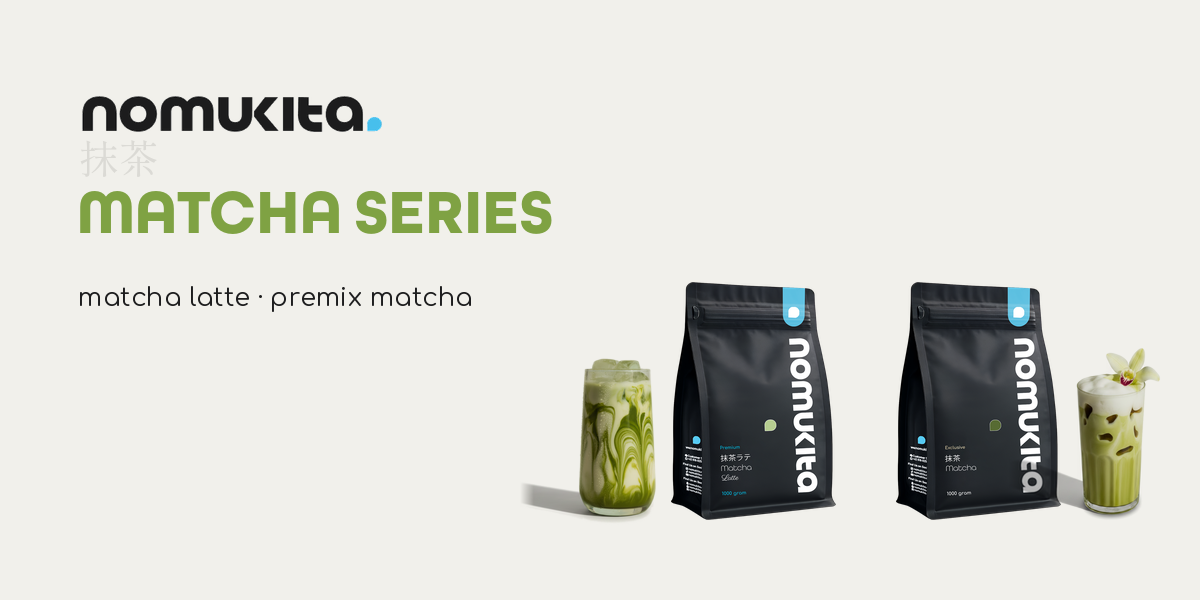
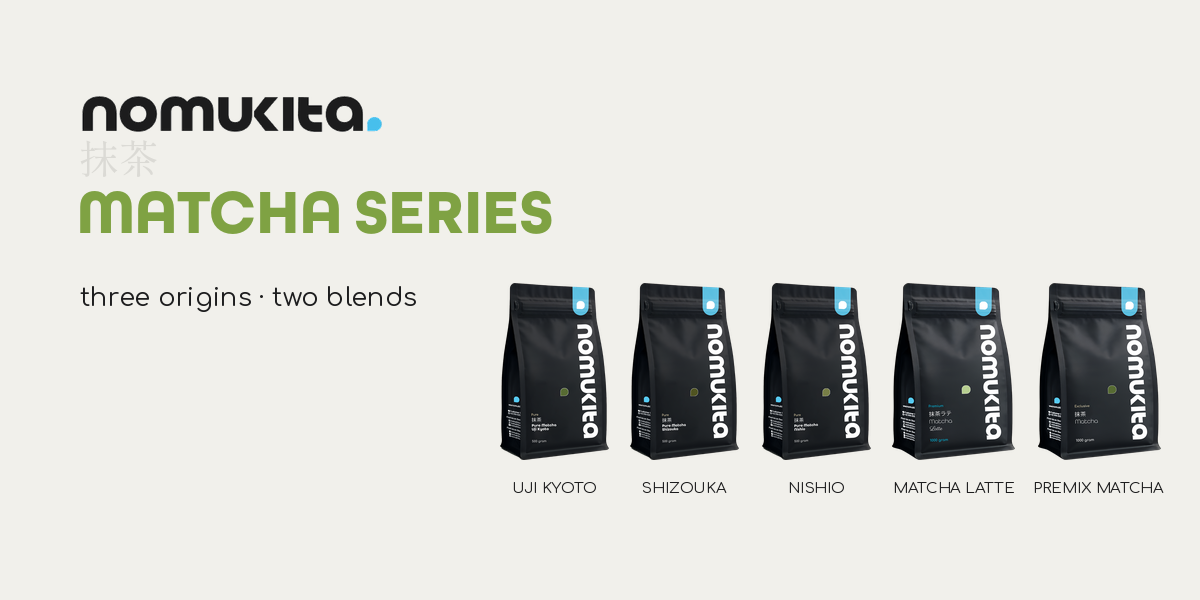
Correct the Matcha Series to its five real members
The series is Uji Kyoto, Shizouka, Nishio, Matcha Latte and Premix Matcha:
three single origin Pure Matcha and two blends. The first version had two
members because the three Pure Matcha are not in the twelve product table in
build_slides.py at all. Their mockups came from Drive and are committed under
prod-matcha/.

Opening those mockups changed the design twice over.

The three Pure Matcha pouches are identical apart from one line of name text.
Same black, same olive drop, same katakana, same label layout. Lined up at
thumbnail size they are a black band carrying no information, so the origin
names move up into typography under each pouch instead of staying as four pixel
print on a label. This is the same conclusion the marketplace research reached
about the twelve flavour pouches, now confirmed on a second set.

And the Pure Matcha are 500 gram while the two blends are 1000 gram, on pouches
with different proportions. Levelling them to one height erases that, so the net
weight is stated in words under each name rather than implied by a size whose
true scale is not established.

Name labels shrink until no two neighbours touch. MATCHA LATTE and PREMIX MATCHA
happen to sit side by side and are the longest pair.

Two things are recorded rather than assumed. The sub-line "three origins, two
blends" rests on the word Pure and a place name printed on the packaging, not on
a product document. And the packaging spells the region Shizouka where Japan
[…]

Changed region(s): [[0.0617, 0.45, 0.9867, 0.87]]

diff --git a/nomukita-carousel/render_series.py b/nomukita-carousel/render_series.py
@@ -234,3 +234,185 @@ def build_banner(series="matcha", out="series_banner.png", size="1000"):
 
     flat.save(out)
     return out
+
+
+# ── seri berisi banyak anggota ───────────────────────────────────────────────
+#
+# Susunan gelas-pouch-pouch-gelas hanya bekerja untuk dua anggota. Matcha Series
+# yang sebenarnya berisi lima: tiga Pure Matcha asal tunggal (Uji Kyoto,
+# Shizouka, Nishio) dan dua racikan (Matcha Latte, Premix Matcha).
+#
+# Dua kenyataan menentukan bentuknya, dan keduanya baru terlihat setelah
+# mockup-nya dibuka:
+#
+# 1. Ketiga pouch Pure Matcha IDENTIK kecuali satu baris teks nama. Warna, tetes,
+#    katakana, dan tata letak labelnya sama persis. Dijejer apa adanya pada
+#    ukuran thumbnail Shopee, ketiganya membentuk pita hitam tanpa informasi.
+#    Jadi nama asalnya dinaikkan menjadi TIPOGRAFI di bawah tiap pouch, bukan
+#    dibiarkan sebagai cetakan 4 px di labelnya.
+# 2. Pure Matcha 500 gram sementara dua racikannya 1000 gram, dan bentuk
+#    kantongnya pun berbeda perbandingannya. Disamakan tingginya, perbedaan itu
+#    hilang - jadi beratnya ditulis di bawah tiap nama, dinyatakan dengan kata
+#    alih-alih disiratkan lewat ukuran yang tidak bisa saya pastikan skalanya.
+LINEUP_BASE = 720
+LINEUP_POUCH_H = 300
+LINEUP_GAP = 22
+LINEUP_NAME_TOP = 762
+LINEUP_WEIGHT_TOP = 792
+LINEUP_MARGIN = 40
+
+LINEUPS = {
+    "matcha": {
+        "head": "MATCHA SERIES",
+        "kanji": "抹茶",
+        "sub": "three origins · two blends",
+        "members": [
+            ("UJI KYOTO", "500 gram", "Mockup nomukita-Pure Matcha Uji Kyoto.png"),
+            ("SHIZOUKA", "500 gram", "Mockup nomukita-Pure Matcha Shizouka.png"),
+            ("NISHIO", "500 gram", "Mockup nomukita-Pure Matcha Nishio.png"),
+            ("MATCHA LATTE", "1000 gram", "Mockup nomukita-Exclusive series-matcha latte.png"),
+            ("PREMIX MATCHA", "1000 gram", "Mockup nomukita-Exclusive series-matcha.png"),
+        ],
+    },
+}
+
+
+def _fit_labels(names, spans, font_path, size, gap=14):
+    """Kecilkan label sampai dua nama bertetangga tidak lagi bersentuhan.
+
+    Nama dipusatkan pada pouch-nya masing-masing, jadi dua nama panjang yang
+    kebetulan bersebelahan bisa bertabrakan walaupun pouch-nya tidak. Di banner
+    lima anggota, "MATCHA LATTE" dan "PREMIX MATCHA" berdiri berdampingan dan
+    itulah pasangan terpanjangnya.
+    """
+    while size > 10:
+        f = ImageFont.truetype(font_path, size)
+        w = [f.getbbox(n)[2] - f.getbbox(n)[0] for n in names]
+        clash = any((spans[i] + w[i] / 2) + gap > (spans[i + 1] - w[i + 1] / 2)
+                    for i in range(len(names) - 1))
+        if not clash:
+            return f
+        size -= 1
+    return ImageFont.truetype(font_path, size)
+
+
+def _centred(canvas, text, font, colour, top, cx):
+    from PIL import ImageDraw
+    pad = 300
+    layer = Image.new("RGBA", (canvas.width + 2 * pad, canvas.height + 2 * pad), (0, 0, 0, 0))
+    ImageDraw.Draw(layer).text((pad, pad), text, font=font, fill=colour + (255,))
+    bb = layer.getbbox()
+    canvas.alpha_composite(layer, (round(cx - (bb[0] + bb[2]) / 2 + pad - pad),
+                                   round(top - (bb[1] - pad) - pad)))
+
+
+def build_lineup(series="matcha", out="lineup.png"):
+    spec = LINEUPS[series]
+    members = spec["members"]
+    accent = bs.accent(spec["head"])
+
+    c = Image.new("RGBA", (bs.W, bs.H), bs.BG + (255,))
+    c.alpha_composite(Image.open(f"{bs.ASSETS}/logo_nomukita.png").convert("RGBA"), bs.LOGO_XY)
+    bs.draw_text_top(c, spec["kanji"], ImageFont.truetype(bs.F_JP, bs.KANJI_SIZE),
+                     bs.KANJI_GREY, bs.W // 2, bs.KANJI_TOP)
+    head = bs.build_headline(spec["head"], bs.HEAD_SIZE, accent)
+    c.alpha_composite(head, ((bs.W - head.width) // 2, bs.HEAD_TOP))
+    bs.draw_text_top(c, spec["sub"], ImageFont.truetype(bs.F_BODY, bs.SUB_SIZE),
+                     bs.CHARCOAL, bs.W // 2, bs.SUB_TOP)
+
+    # Tinggi seragam, lalu dikecilkan sekali kalau barisnya tidak muat.
+    pouches = []
+    for name, weight, mock in members:
+        im = Image.open(f"{bs.PROD}/{mock}").convert("RGBA")
+        pouches.append((name, weight, im.crop(im.getbbox())))
+    h = LINEUP_POUCH_H
+    room = bs.W - 2 * LINEUP_MARGIN - LINEUP_GAP * (len(pouches) - 1)
+    span = sum(round(im.width * h / im.height) for _, _, im in pouches)
+    if span > room:
+        h = round(h * room / span)
+        span = sum(round(im.width * h / im.height) for _, _, im in pouches)
+
+    x = (bs.W - span - LINEUP_GAP * (len(pouches) - 1)) / 2
+    places = []
+    for name, weight, im in pouches:
+        w = round(im.width * h / im.height)
+        places.append((x, w))
+        x += w + LINEUP_GAP
+    centres = [px + pw / 2 for px, pw in places]
+    name_f = _fit_labels([n for n, _, _ in pouches], centres, bs.F_BODY, 20)
+    weight_f = ImageFont.truetype(bs.F_BODY, max(12, name_f.size - 3))
+
+    for (name, weight, im), (px, pw) in zip(pouches, places):
+        c.alpha_composite(im.resize((pw, h), Image.LANCZOS), (round(px), LINEUP_BASE - h))
+        cx = px + pw / 2
+        _centred(c, name, name_f, bs.CHARCOAL, LINEUP_NAME_TOP, cx)
+        _centred(c, weight, weight_f, bs.KANJI_GREY, LINEUP_WEIGHT_TOP, cx)
+
+    halal = Image.open(f"{bs.ASSETS}/halal.png").convert("RGBA")
+    hw = round(halal.width * bs.HALAL_H / halal.height)
+    c.alpha_composite(halal.resize((hw, bs.HALAL_H), Image.LANCZOS),
+                      ((bs.W - hw) // 2, bs.HALAL_TOP))
+
+    flat = Image.new("RGB", (bs.W, bs.H), bs.BG)
+    flat.paste(c, (0, 0), c)
+    flat.save(out)
+    return out
+
+
+def build_lineup_banner(series="matcha", out="lineup_banner.png"):
+    """Versi memanjang 1200 x 600 untuk banner toko.
+
+    Perangkat mereknya pindah ke kolom kiri dengan alasan yang sama seperti
+    banner dua anggota: pada tinggi 600 px, tumpukan tengah tidak menyisakan
+    ruang yang cukup untuk produknya.
+    """
+    from PIL import ImageDraw
+    spec = LINEUPS[series]
+    members = spec["members"]
+    accent = bs.accent(spec["head"])
+
+    c = Image.new("RGBA", (BANNER_W, BANNER_H), bs.BG + (255,))
+    c.alpha_composite(Image.open(f"{bs.ASSETS}/logo_nomukita.png").convert("RGBA"),
+                      (BANNER_LEFT, 92))
+    head = bs.build_headline(spec["head"], 62, accent)
+    c.alpha_composite(head, (BANNER_LEFT, 190))
+
+    pad = 300
+    for text, font, colour, top in [
+            (spec["kanji"], ImageFont.truetype(bs.F_JP, 40), bs.KANJI_GREY, 140),
+            (spec["sub"], ImageFont.truetype(bs.F_BODY, 26), bs.CHARCOAL, 286)]:
+        layer = Image.new("RGBA", (BANNER_W + 2 * pad, BANNER_H + 2 * pad), (0, 0, 0, 0))
+        ImageDraw.Draw(layer).text((pad, pad), text, font=font, fill=colour + (255,))
+        bb = layer.getbbox()
+        c.alpha_composite(layer, (round(BANNER_LEFT - (bb[0] - pad) - pad),
+                                  round(top - (bb[1] - pad) - pad)))
+
+    left = 500
+    room = BANNER_W - left - 40 - LINEUP_GAP * (len(members) - 1)
+    pouches = []
+    for name, weight, mock in members:
+        im = Image.open(f"{bs.PROD}/{mock}").convert("RGBA")
+        pouches.append((name, weight, im.crop(im.getbbox())))
+    h = 250
+    span = sum(round(im.width * h / im.height) for _, _, im in pouches)
+    if span > room:
+        h = round(h * room / span)
+        span = sum(round(im.width * h / im.height) for _, _, im in pouches)
+
+    base = 460
+    x = left + (room - span) / 2
+    places = []
+    for name, weight, im in pouches:
+        w = round(im.width * h / im.height)
+        places.append((x, w))
+        x += w + LINEUP_GAP
+    centres = [px + pw / 2 for px, pw in places]
+    name_f = _fit_labels([n for n, _, _ in pouches], centres, bs.F_BODY, 16)
+    for (name, weight, im), (px, pw) in zip(pouches, places):
+        c.alpha_composite(im.resize((pw, h), Image.LANCZOS), (round(px), base - h))
+        _centred(c, name, name_f, bs.CHARCOAL, base + 22, px + pw / 2)
+
+    flat = Image.new("RGB", (BANNER_W, BANNER_H), bs.BG)
+    flat.paste(c, (0, 0), c)
+    flat.save(out)
+    return out

diff --git a/nomukita-carousel/README.md b/nomukita-carousel/README.md
@@ -315,21 +315,50 @@ python3 build_all_s2.py   # susun dan periksa 24 slide
 
 ## Gambar kategori toko
 
-`kategori/`. Untuk komponen Kategori di dekorasi toko Shopee, yang mengelompokkan
-produk di luar halaman produk itu sendiri. **Nol kredit.**
+`kategori/`. Untuk komponen Kategori di dekorasi toko Shopee. **Nol kredit.**
 
 Dua bentuk, karena Shopee memakainya untuk dua keperluan: komponen Kategori
 memakai gambar persegi 1024 x 1024, banner toko memanjang 1200 x 600.
 
-Bahasa visualnya dipinjam utuh dari slide 1 - logo, watermark katakana, headline,
-sub-baris, garis alas y 855, seal Halal y 881 - supaya halaman kategori dan
-halaman produk terbaca sebagai satu toko. Yang berbeda hanya isinya: seluruh
-anggota seri berdiri berdampingan, masing-masing dengan minumannya, disusun
-cermin (gelas, pouch, pouch, gelas) sehingga kedua pouch bertemu di tengah.
+### Matcha Series berisi lima, bukan dua
 
-Versi memanjang tidak bisa memakai susunan yang sama. Pada tinggi 600 px,
-tumpukan tengah menyisakan kurang dari 400 px untuk produk dan pouch-nya
-mengecil sampai tidak terbaca, jadi perangkat mereknya pindah ke kolom kiri.
+Anggotanya **Uji Kyoto, Shizouka, Nishio, Matcha Latte, dan Premix Matcha** -
+tiga Pure Matcha asal tunggal dan dua racikan. Ketiga Pure Matcha itu tidak ada
+di tabel dua belas produk `build_slides.py`; mockup-nya diambil dari Drive dan
+disimpan di `prod-matcha/`.
+
+Dua kenyataan menentukan bentuk gambarnya, dan keduanya baru terlihat setelah
+mockup-nya dibuka:
+
+1. **Ketiga pouch Pure Matcha identik** kecuali satu baris teks nama. Warna,
+   tetes, katakana, dan tata letak labelnya sama persis. Dijejer apa adanya pada
+   ukuran thumbnail, ketiganya membentuk pita hitam tanpa informasi. Jadi nama
+   asalnya dinaikkan menjadi tipografi di bawah tiap pouch, bukan dibiarkan
+   sebagai cetakan 4 px di labelnya.
+2. **Pure Matcha 500 gram, dua racikannya 1000 gram**, dan bentuk kantongnya pun
+   berbeda perbandingannya. Disamakan tingginya, perbedaan itu hilang - jadi
+   beratnya ditulis di bawah tiap nama, dinyatakan dengan kata alih-alih
+   disiratkan lewat ukuran yang skalanya belum bisa dipastikan.
+
+Label nama mengecil sendiri sampai dua nama bertetangga tidak bersentuhan.
+"MATCHA LATTE" dan "PREMIX MATCHA" kebetulan berdampingan dan itulah pasangan
+terpanjangnya.
+
+Sub-baris "three origins . two blends" **menunggu konfirmasi**: ia menyatakan
+ketiga Pure Matcha berasal dari satu daerah masing-masing dan kedua sisanya
+racikan. Dasarnya kata "Pure" dan nama daerah yang tercetak di kemasan, bukan
+dokumen produk.
+
+**Ejaan "Shizouka" mengikuti kemasan.** Nama daerahnya di Jepang dieja
+*Shizuoka*. Untuk produk yang menjual asal-usul Jepang, salah eja di kemasan
+adalah hal yang layak diperbaiki di sumbernya - sama seperti katakana Avocado.
+
+### Versi dua anggota
+
+`render_series.py` masih memuat `build()` dan `build_banner()`, yang menyusun
+gelas-pouch-pouch-gelas untuk seri beranggota dua. Susunan itu tidak dipakai
+untuk Matcha Series lagi karena lima anggota tidak muat, tapi tetap ada untuk
+seri lain yang beranggota sedikit.
 
 ### Tiga kesalahan tata letak yang tertangkap saat membangunnya
 
@@ -338,11 +367,10 @@ Ketiganya sejenis: menyusun tata letak dari ukuran yang salah.
 1. **Gelas diukur dari kotak penuhnya.** Kotak penuh gelas Matcha Latte 569 x 706
    karena bayangan dan caustic-nya menjulur jauh ke samping; badannya sendiri
    hanya 327 px. Dipakai apa adanya, gelasnya terhitung 242 px dan mendorong
-   kelompoknya keluar kanvas. Ukur badannya.
+   kelompoknya keluar kanvas.
 2. **Bayangan lempar tidak ikut terukur.** `photo.box()` mengembalikan kotak
    SILUET, dan bayangan bukan bagian dari siluet. Setelah perbaikan pertama,
    tintanya masih berhenti empat piksel dari tepi meski marginnya empat puluh.
-   Yang benar diukur adalah setiap piksel yang rasionya menyimpang dari satu.
 3. **Rentang yang dipusatkan salah tanda.** Menjulurnya ditambahkan, bukan
    dikurangi, sehingga kelompoknya bergeser separuh total julurannya ke kanan:
    margin kiri 100 px, margin kanan 2 px.
@@ -353,5 +381,6 @@ berputar 985 kali tanpa pernah selesai waktu membangun slide 250 gram.
 
 ### Menambah seri lain
 
-Tambahkan entri di `SERIES` pada `render_series.py`: headline, katakana,
-sub-baris, dan daftar anggotanya. Susunannya menyesuaikan sendiri.
+Tambahkan entri di `LINEUPS` pada `render_series.py`: headline, katakana,
+sub-baris, dan daftar (nama, berat, berkas mockup). Susunannya menyesuaikan
+sendiri dan mengecil otomatis kalau anggotanya bertambah.
